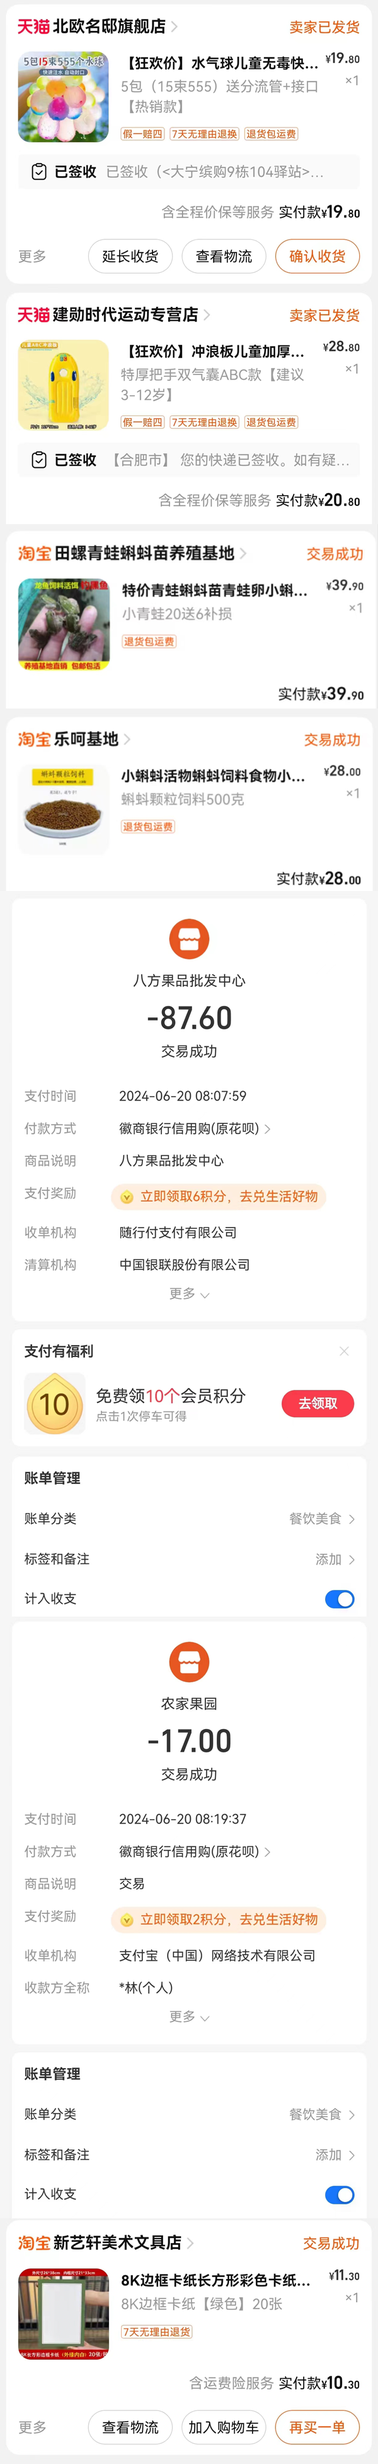
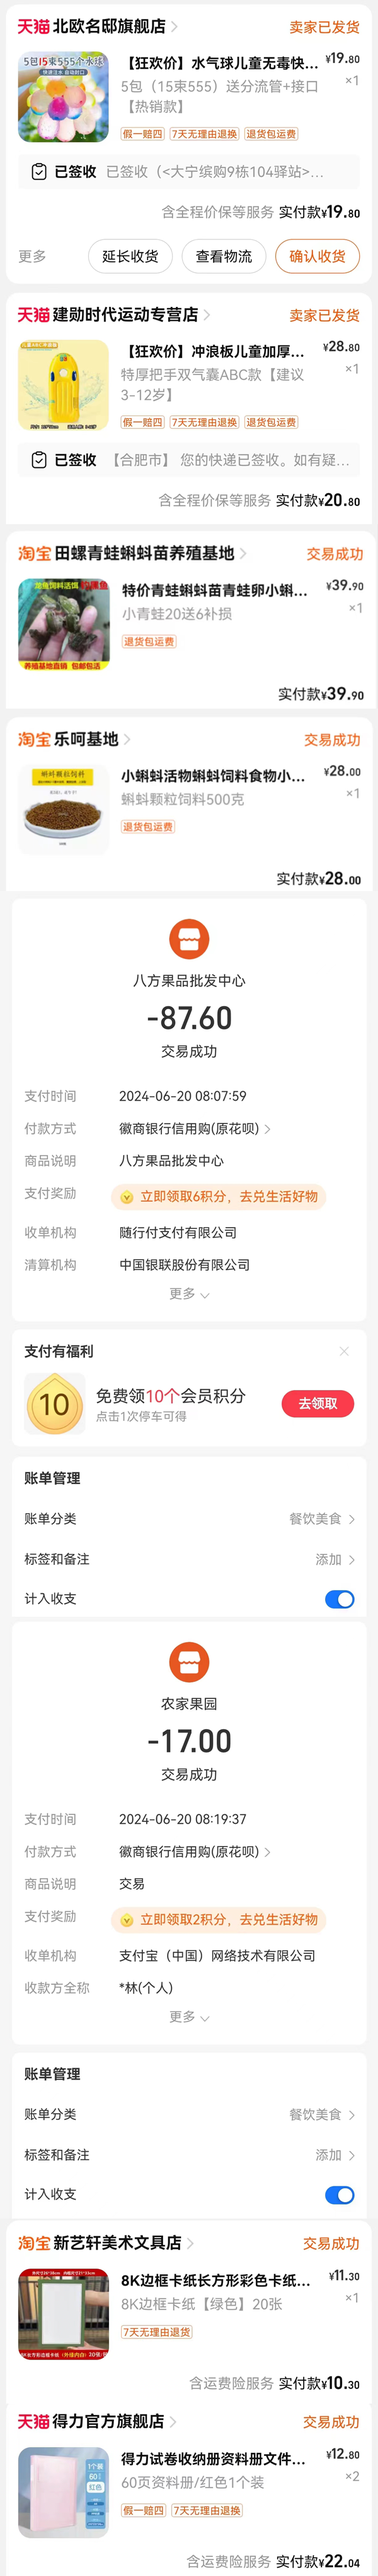
1

Changed region(s): [[0.03, 0.0, 0.96, 0.6512], [0.03, 0.6202, 0.96, 1.0], [0.75, 0.5272, 0.93, 0.6512]]

diff --git a/banfei/index.html b/banfei/index.html
@@ -934,6 +934,14 @@
 								<a href="https://item.taobao.com/item.htm?id=751942777921">查看商品</a>
 							</td>
 						</tr>
+						<tr>
+							<td>0626</td>
+							<td>-22.04</td>
+							<td>5351.81</td>
+							<td>购买60页资料册2个<br><a href="img/20240621.jpg">查看图片</a>
+								<a href="https://detail.tmall.com/item.htm?id=580230859542&skuId=5054310833919">查看商品</a>
+							</td>
+						</tr>
 					</tbody>
 				</table>
 			</div>
@@ -946,7 +954,7 @@
 	</article>
 
 	<footer>
-		<p>最后更新于 2024-06-21</p>
+		<p>最后更新于 2024-06-26</p>
 	</footer>
 </body>
 
